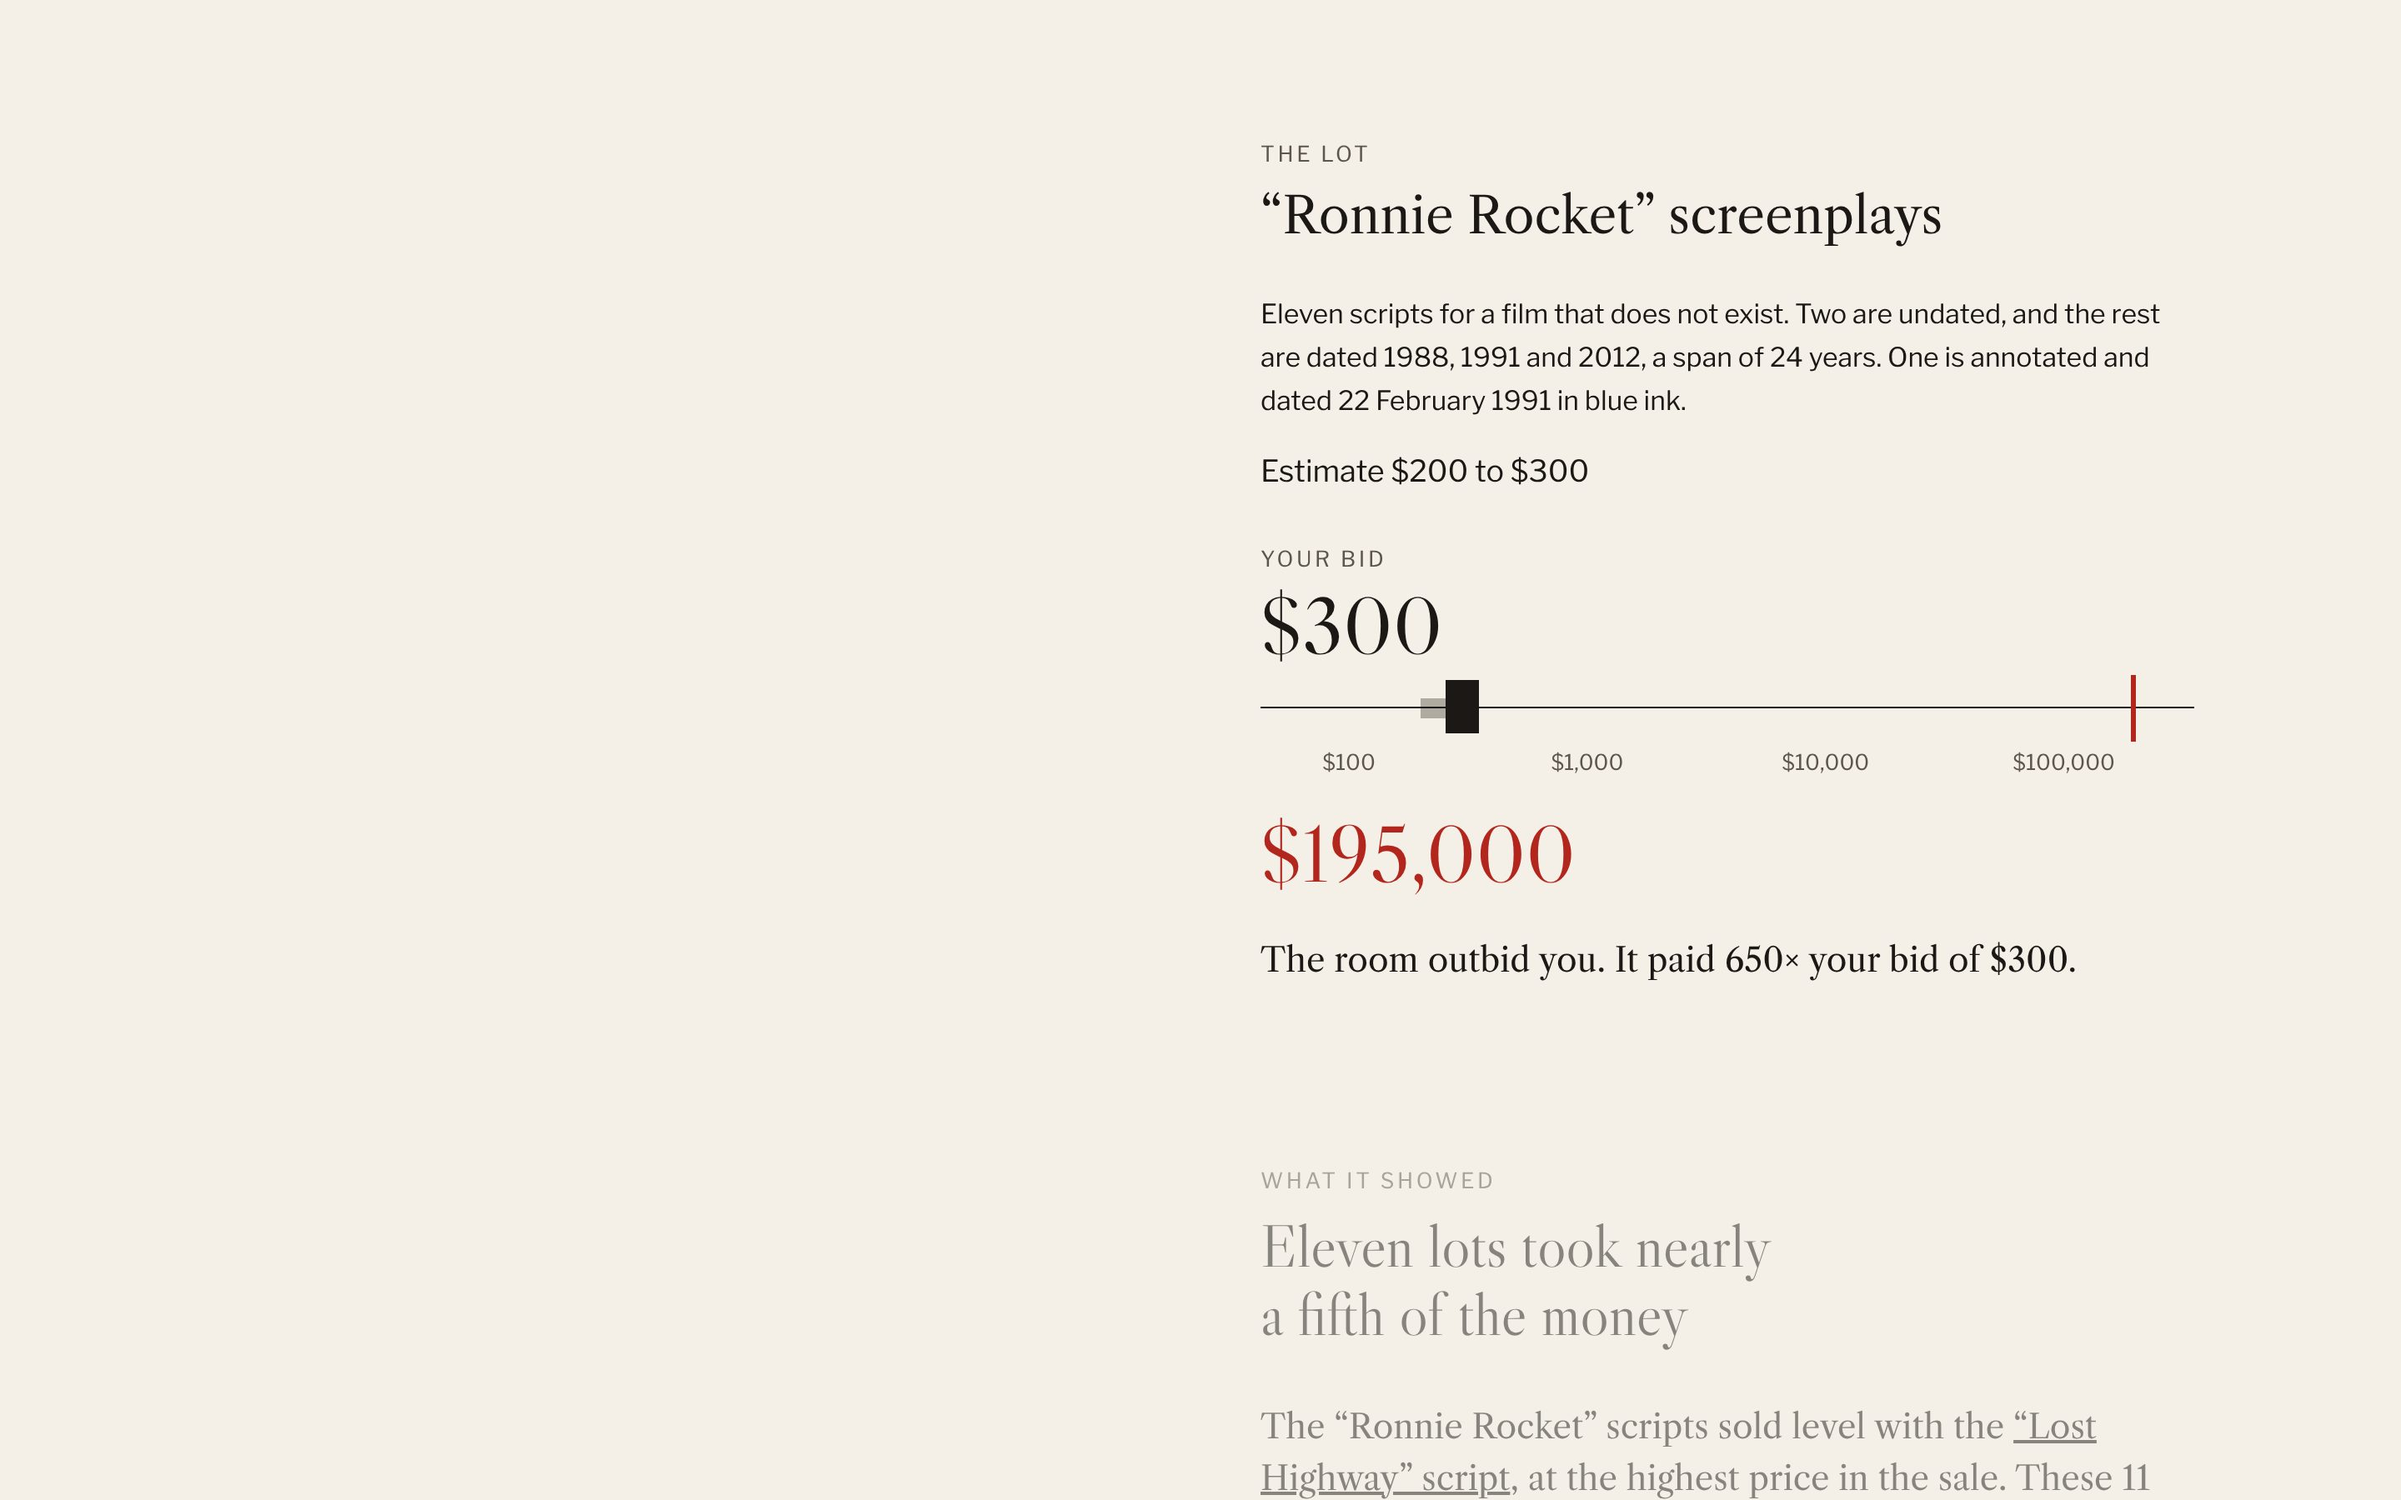
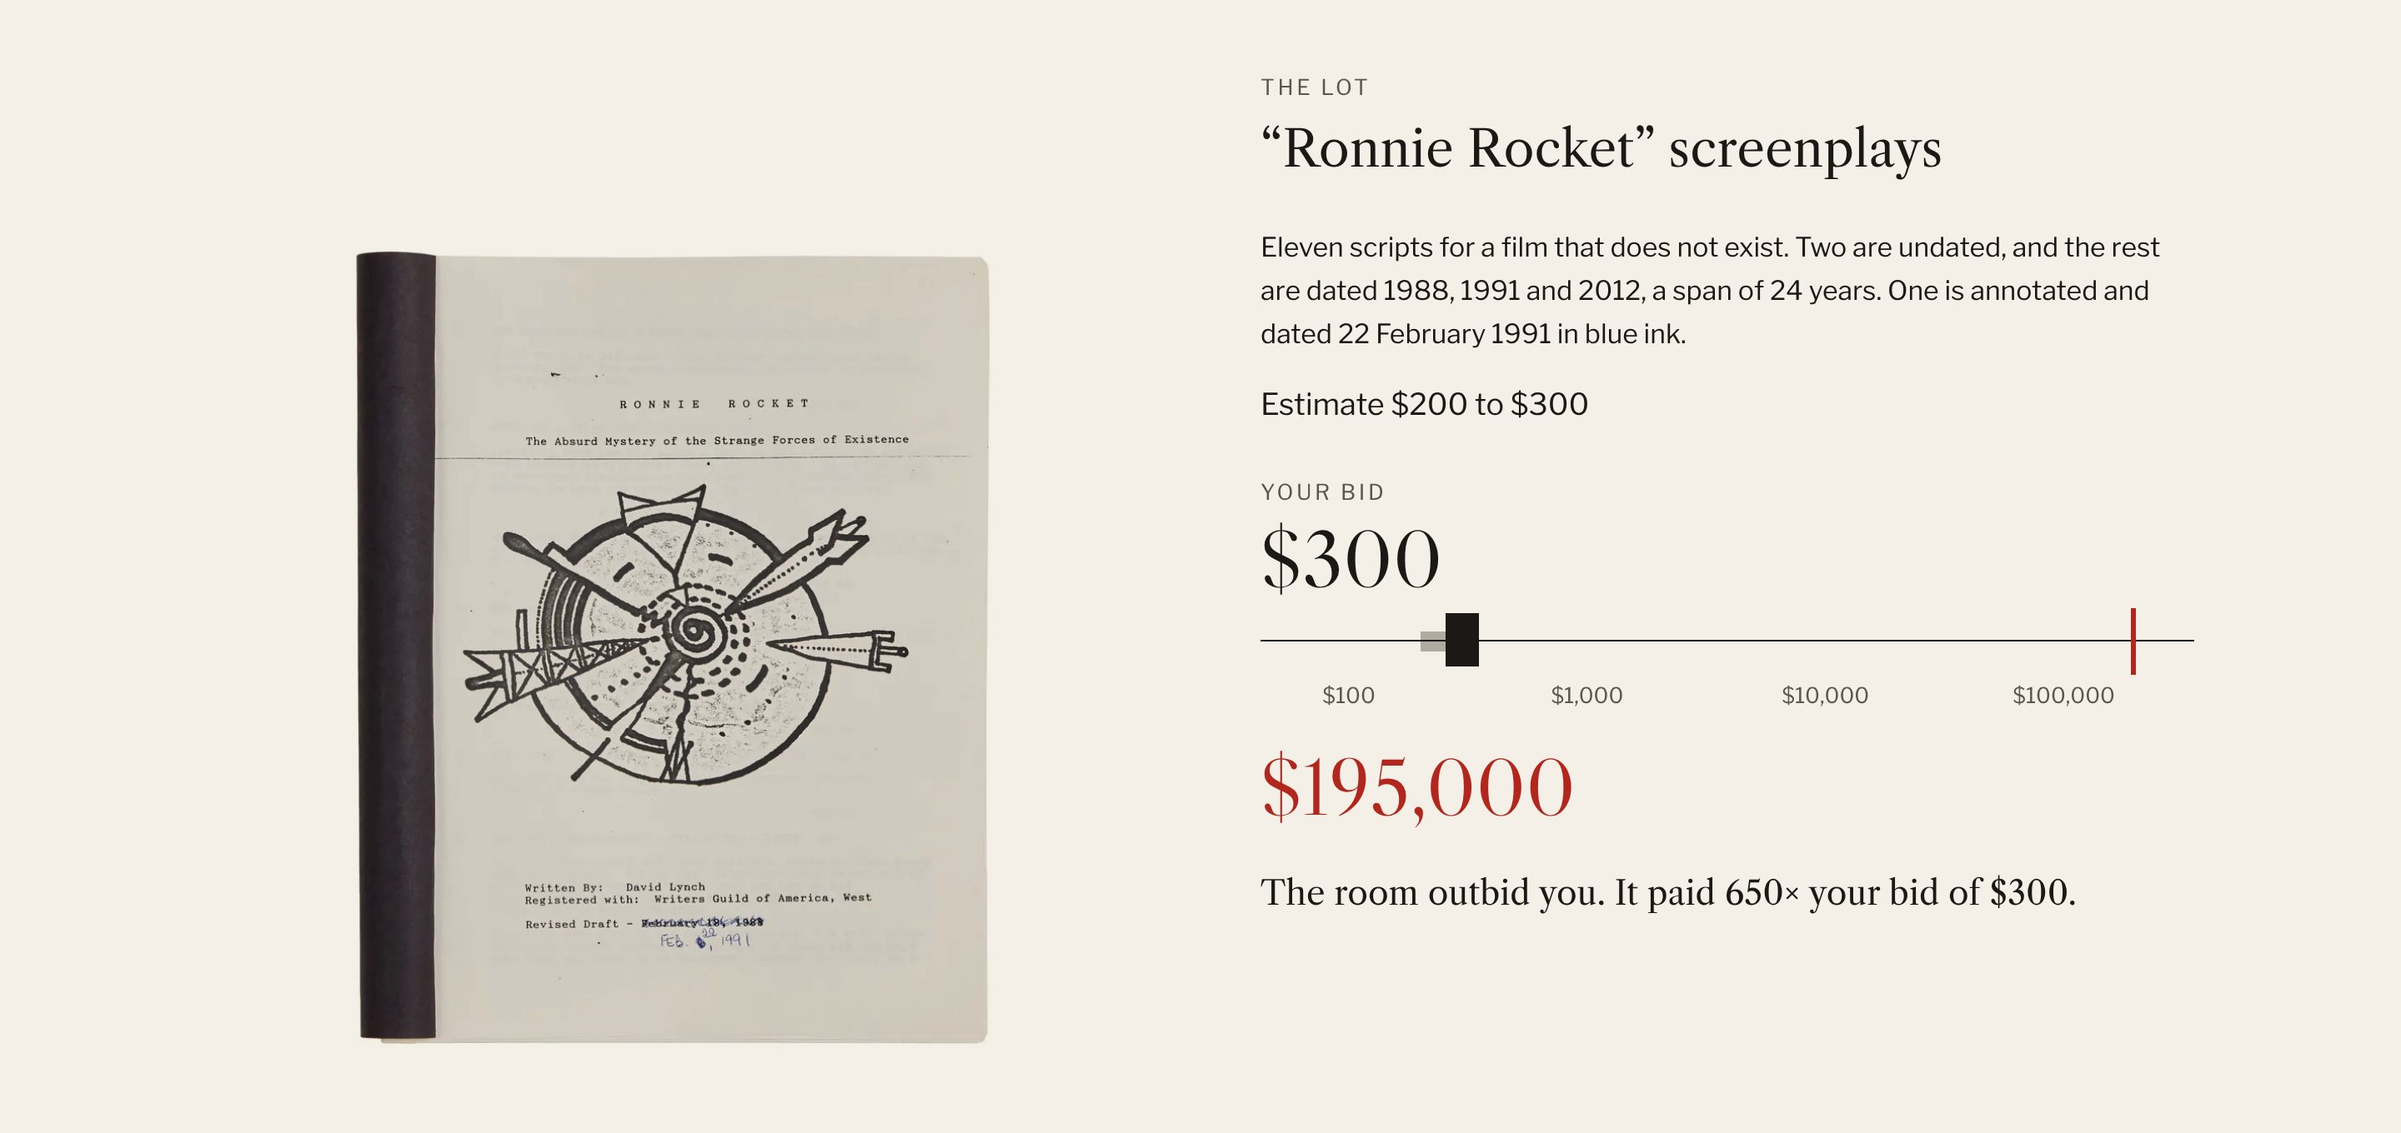
docs: fix bid screenshot and trim README intro (#2)
* docs: redesign README with screenshots and scannable layout

Adds a hero image, an at-a-glance table of the sale's key figures,
a page overview table and a screenshot tour of the story, the wall,
the dashboards and the library. Rebuild and deploy steps move into
collapsible sections.

Claude-Session: https://claude.ai/code/session_013myQ1p5YzLY5uakibhQN85

* docs: show the lot image in the bid screenshot and trim the README intro

The bid screenshot was captured before the screenplay image loaded.
The intro now uses a plain list instead of a bold table, and the page
descriptions are shorter.

Claude-Session: https://claude.ai/code/session_013myQ1p5YzLY5uakibhQN85

---------

diff --git a/README.md b/README.md
@@ -1,34 +1,29 @@
 # The David Lynch Collection
 
-**David Lynch's world, in 441 objects.** An interactive study of every lot in his estate sale at Julien's Auctions: what each one was estimated at, what it sold for, and how far the room went past the estimate.
+A study of the 441 lots in David Lynch's estate sale at Julien's Auctions: the estimate, the sold price and the multiple for every lot.
 
-**[Visit the live site →](https://lynch.hassan-odimi.se)**
+Live site: [lynch.hassan-odimi.se](https://lynch.hassan-odimi.se)
 
-<p align="center">
-  <a href="https://lynch.hassan-odimi.se"><img src="docs/screenshots/story-hero.jpg" alt="The opening screen: the headline “David Lynch’s world, in 441 objects” beside a black-and-white portrait of Lynch" width="100%"></a>
-</p>
+<a href="https://lynch.hassan-odimi.se"><img src="docs/screenshots/story-hero.jpg" alt="The opening screen: the headline “David Lynch’s world, in 441 objects” beside a black-and-white portrait of Lynch" width="100%"></a>
 
 ## The sale at a glance
 
-| | |
-|---|---|
-| **$4,245,930** | sold in total, across **441 lots** |
-| **18.2×** | median sold price against the midpoint of the estimate |
-| **440 of 441** | lots sold above their high estimate |
-| **$195,000** | top price, a tie between the *Ronnie Rocket* and *Lost Highway* scripts, each 780× its midpoint |
-| **1** | lot below estimate: a Vladimir Kagan Swan Back Sofa, $6,500 against $8,000 to $10,000 |
+- $4,245,930 in total across 441 lots.
+- The median lot sold for 18.2 times the midpoint of its estimate.
+- 440 of 441 lots sold above their high estimate. The exception was a Vladimir Kagan sofa: $6,500 against $8,000 to $10,000.
+- The top price was $195,000, a tie between the *Ronnie Rocket* and *Lost Highway* scripts.
 
-It is not known whether the sold prices include buyer's premium.
+Whether sold prices include buyer's premium is not known.
 
 ## What's on the site
 
 | Page | What it does |
 |---|---|
-| **Story** | Six chapters (Wrote, Filmed, Painted, Built and furnished, Played, Read). Each one asks you to bid on a lot before showing what it sold for. |
-| **The wall** | All 441 lots in one picture. You can arrange it by price, as a chart, by colour, or as a portrait of Lynch. |
-| **Collection** | Every lot, with search, category and price filters, and a detail view for each one. |
-| **Library** | The 287 books in the sale, shelved by subject and linked to Open Library. |
-| **Dashboards** | Six tabs (Overview, Findings, Prices, Categories, Films, Books), each with its own shareable URL. |
+| Story | Six chapters. Bid on a lot in each, then see what it sold for. |
+| The wall | All 441 lots in one picture, arranged by price, as a chart, by colour or as a portrait. |
+| Collection | Every lot, with search and filters. |
+| Library | The 287 books in the sale, by subject. |
+| Dashboards | Six tabs of charts, each with its own URL. |
 
 ## A tour
 
